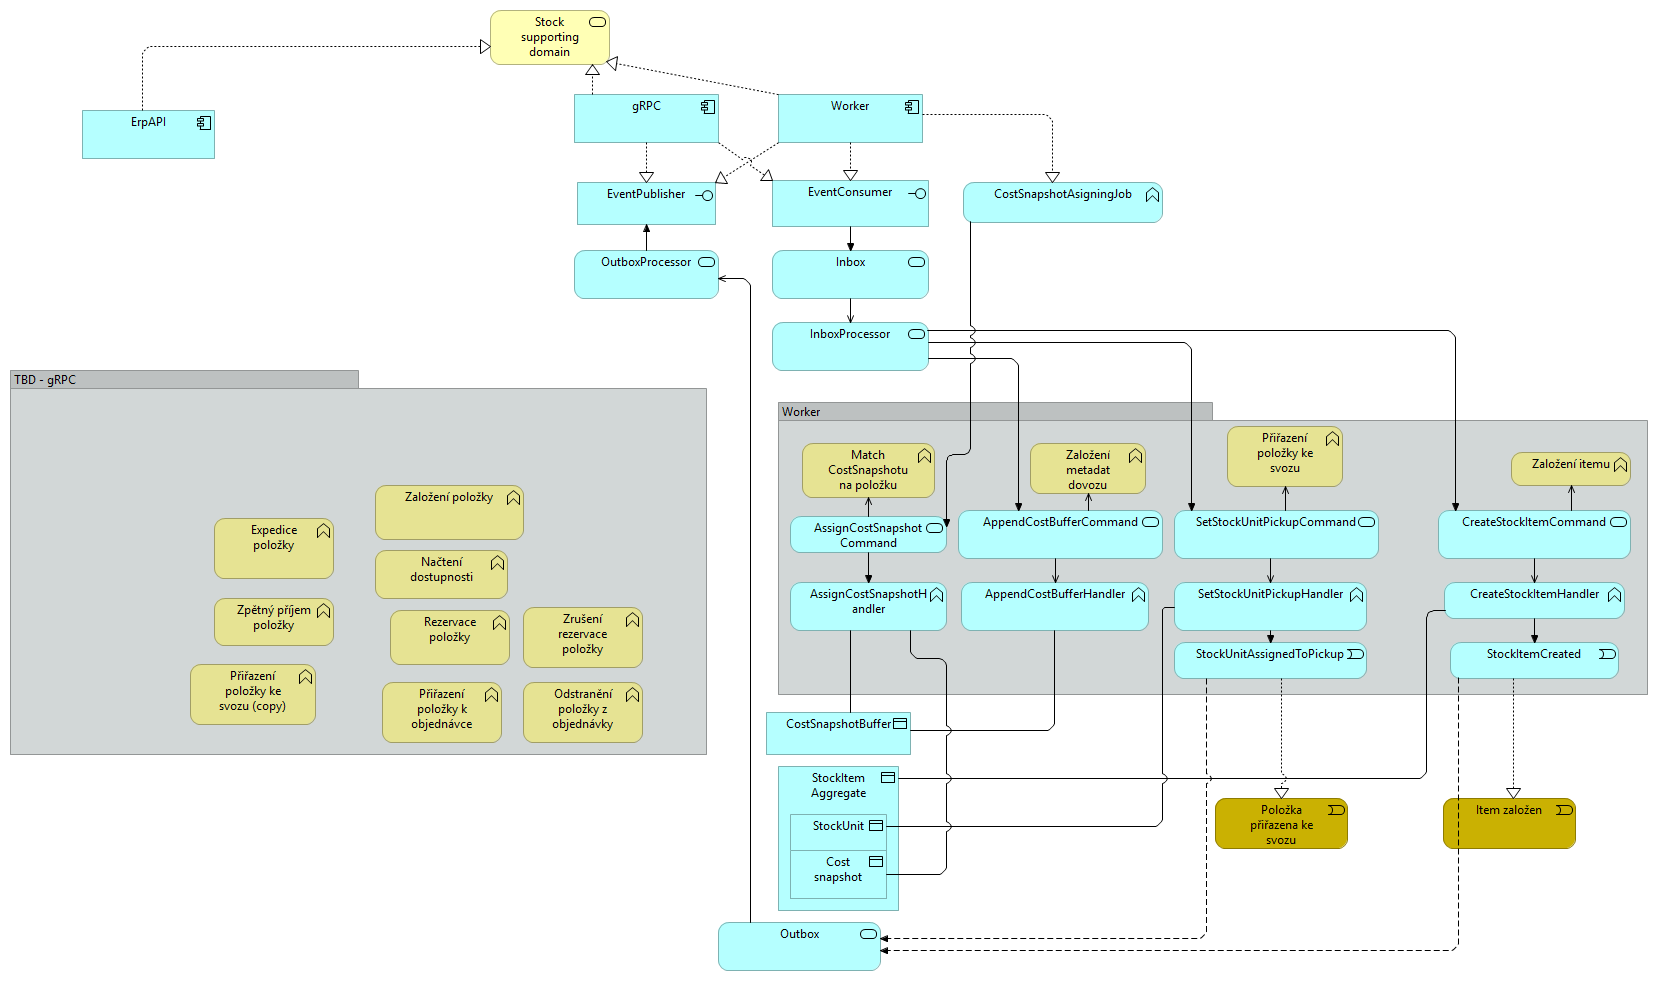
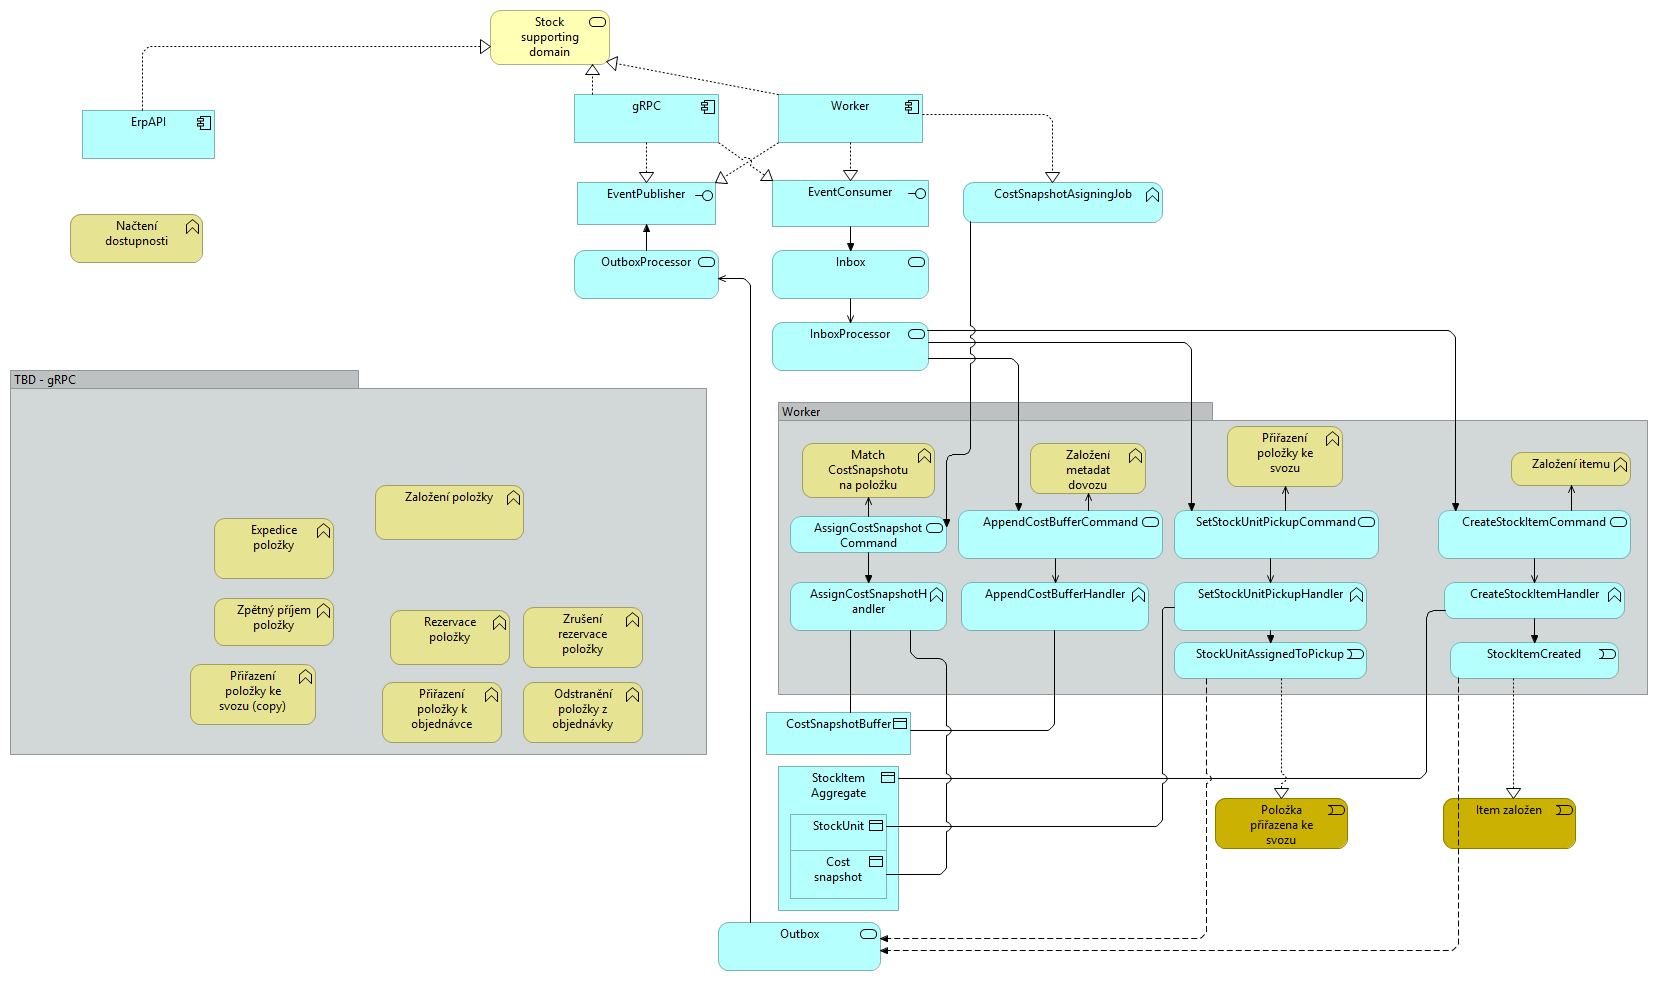
arch-stock + md

Changed region(s): [[0.2153, 0.5505, 0.3076, 0.6116], [0.0308, 0.2141, 0.123, 0.2752]]

diff --git a/arch/docs/TOGAF/Archi/id-a684dda0a38c46dd8ec32300560e4317/views/id-e3c5a73377a445f0b5e624e1e2bdf467.html b/arch/docs/TOGAF/Archi/id-a684dda0a38c46dd8ec32300560e4317/views/id-e3c5a73377a445f0b5e624e1e2bdf467.html
@@ -40,7 +40,7 @@
 				  		<area shape="rect" coords="523,607,643,668" href="../elements/id-860e8e3bb9fc452780a7f1946bb4e0e3.html"  target="element">
 				  		<area shape="rect" coords="382,682,502,743" href="../elements/id-486bee53a4e34f4fa6ced1e5a35dce9a.html"  target="element">
 				  		<area shape="rect" coords="390,610,510,665" href="../elements/id-36fc82538dfa41218423f89b48a80fe4.html"  target="element">
-				  		<area shape="rect" coords="375,550,508,599" href="../elements/id-82f6746d9ea540a89be465187663cdc2.html"  target="element">
+				  		<area shape="rect" coords="70,214,203,263" href="../elements/id-82f6746d9ea540a89be465187663cdc2.html"  target="element">
 				  		<area shape="rect" coords="766,712,911,755" href="../elements/id-f67548e295ab49eebac27f42b33dc851.html"  target="element">
 				  		<area shape="rect" coords="963,182,1163,223" href="../elements/id-22d2c2fb26d84adaafbb459eb58c1c91.html"  target="element">
 				  		<area shape="rect" coords="1215,798,1348,849" href="../elements/id-30a538011c2e4d4a8102da91b0f867cc.html"  target="element">
